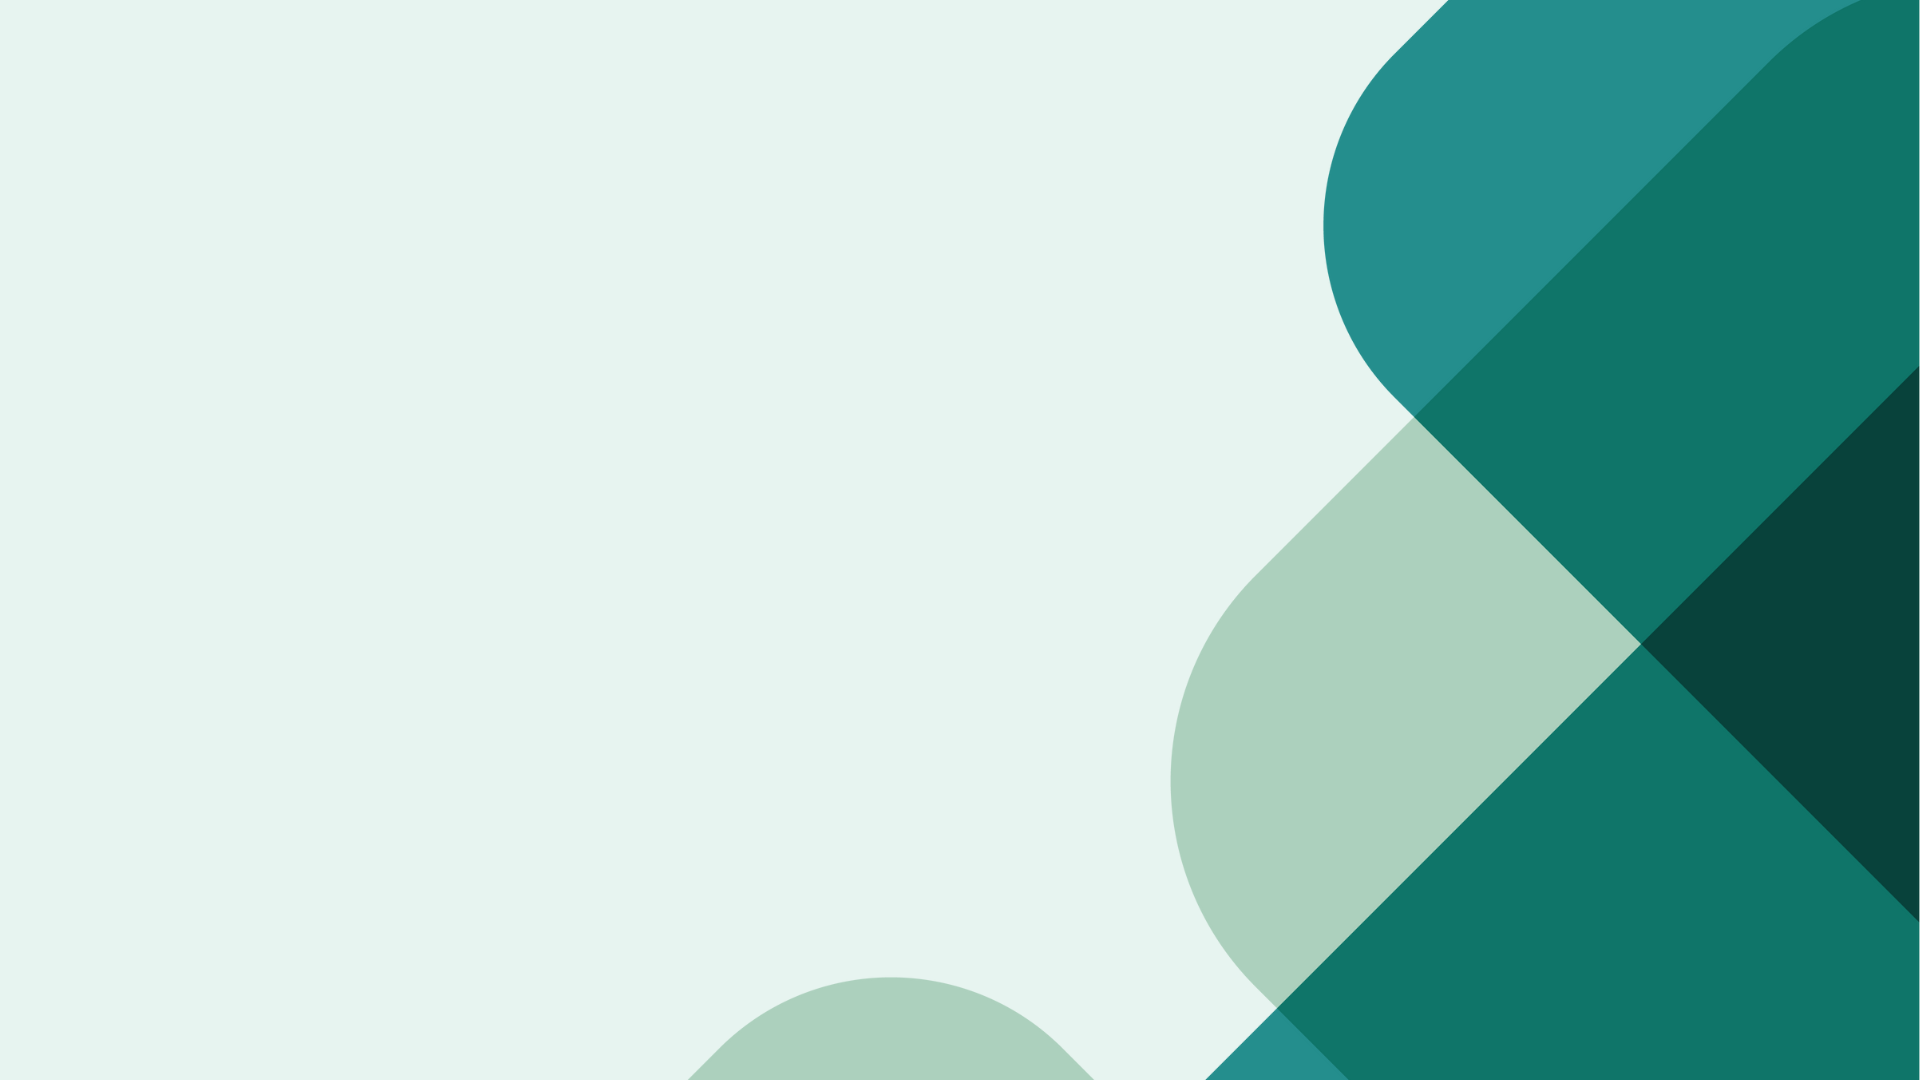
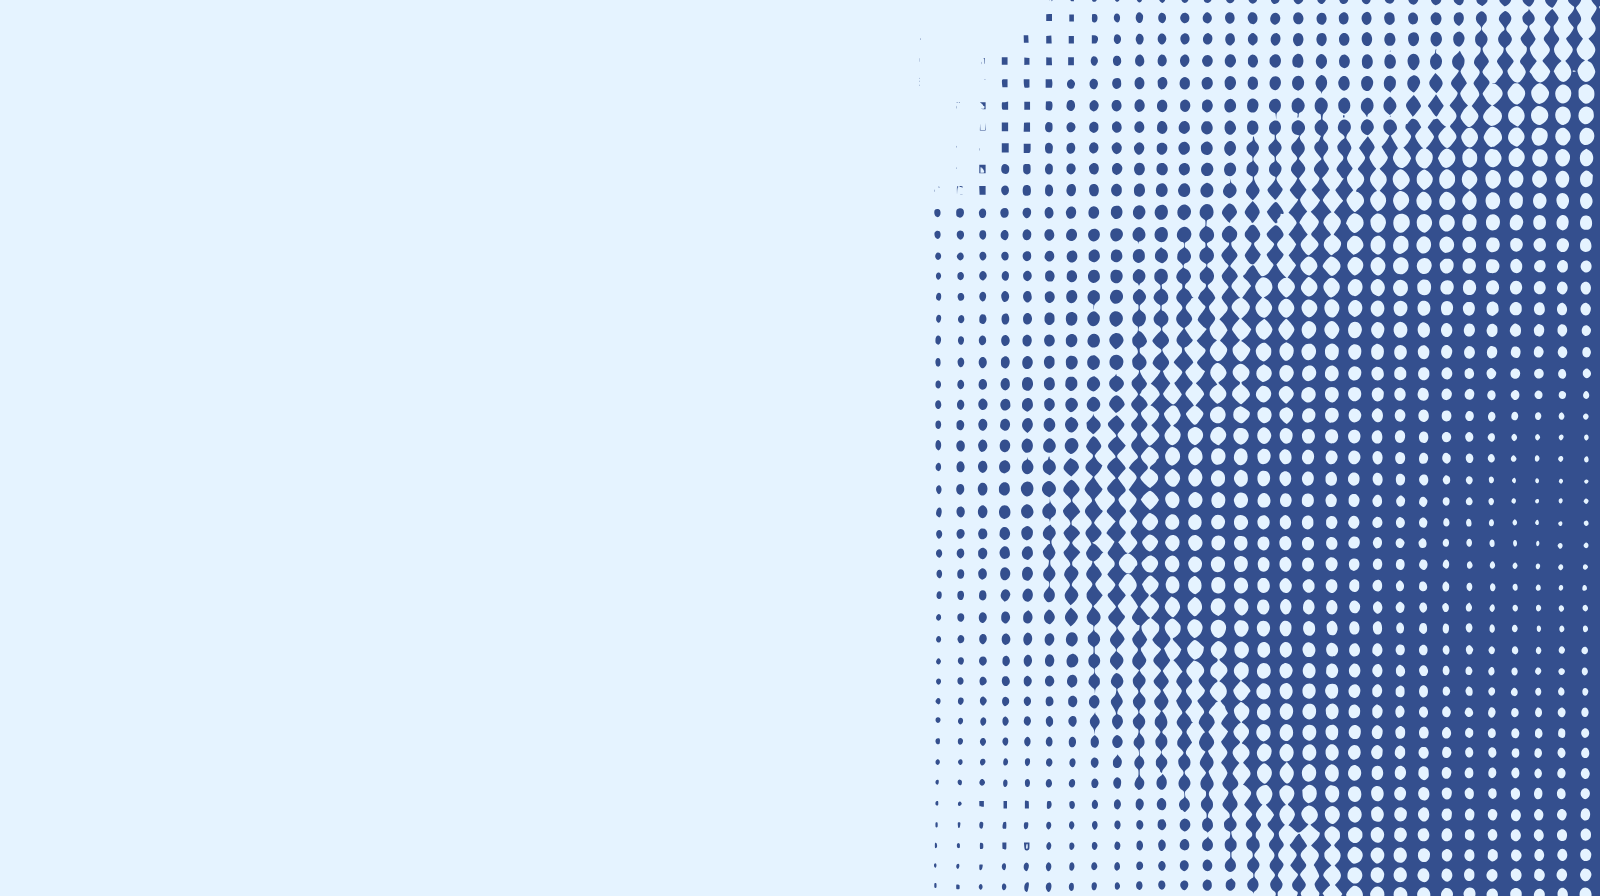
update-3

diff --git a/components/pages/main-services/managed-services/index.jsx b/components/pages/main-services/managed-services/index.jsx
@@ -38,13 +38,16 @@ const PowerBI = () => {
   links={[
     { label: "Overview", href: "#about" },
     { label: "Services", href: "#services" },
-    { label: "Implementation", href: "#implement" },
+    { label: "Approach", href: "#approach" },
+    { label: "Expertise", href: "#expertise" },
     { label: "Why Choose?", href: "#whyus" },
     { label: "Testimonials", href: "#testimonials" },
     { label: "Other Services", href: "#otherservices" },
   ]}
 />
 
+
+<div id="about">
 <OverviewComponent
   title="Modern Managed Services for Cloud-Driven Organisations"
   primaryColor="#0d2b75"
@@ -63,13 +66,10 @@ const PowerBI = () => {
     "Security-first governance aligned with ISO, CIS, and NIST standards",
   ]}
 />
+</div>
 
 
-
-
-
-
-<div id="service-offerings">
+<div id="services">
  
     <ServiceFeatureCards
       title="Key Managed Service Offerings"
@@ -189,15 +189,6 @@ const PowerBI = () => {
 </div>
 
 
-
-
-      
-
-
-
-
-
-
 <div id="approach">
   <Reveal direction="fade" blur={true} delay={0.4} duration={1}>
     <BulletPoints
@@ -223,7 +214,7 @@ const PowerBI = () => {
 </div>
 
 
-
+<div id="expertise">
 <Reveal direction="fade" blur={true} delay={0.4} duration={1}>
   <PricingCardsSection
     sectionId="expertise"
@@ -276,8 +267,9 @@ const PowerBI = () => {
     ]}
   />
 </Reveal>
+</div>
 
-
+<div id="whyus">
 <ServiceSplitPanel
   title="Why Organisations Choose Novum Managed Services"
   primaryColor="#2d1a78"
@@ -361,13 +353,13 @@ const PowerBI = () => {
     }
   ]}
 />
-
+</div>
 
 
         
 
 
-
+<div id="testimonials">
 <Reveal direction="fade" blur={true} delay={0.4} duration={1}>
 <Testimonials
   subtitle="Client Stories"
@@ -400,7 +392,7 @@ const PowerBI = () => {
   ]}
 />
 </Reveal>
-
+</div>
 
 
       <OtherServices

diff --git a/components/pages/main-services/professional-services/index.jsx b/components/pages/main-services/professional-services/index.jsx
@@ -27,7 +27,7 @@ const Professional = () => {
   title="Cloud Strategy, Migration, Modernization & DevOps"
   highlightText="Professional Services"
   subtitle="Novum provides expert professional services to help organisations design, build, migrate, and optimise cloud and modern IT environments across Azure, AWS, and Google Cloud."
-  bgImage="/assets/img/professional-services/bg-3.png"
+  bgImage="/assets/img/professional-services/bg-2.png"
   // heroImage="/assets/img/professional-services/professional-hero.webp"
   heroButtons={[
     { label: "Contact Us", href: "/contact" },
